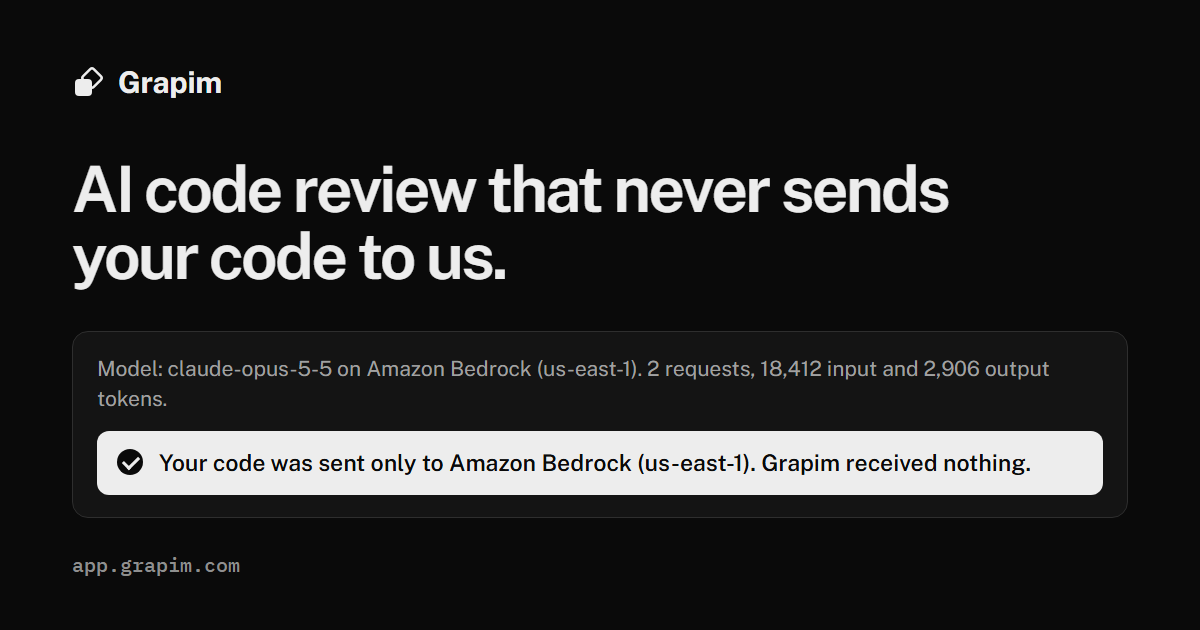
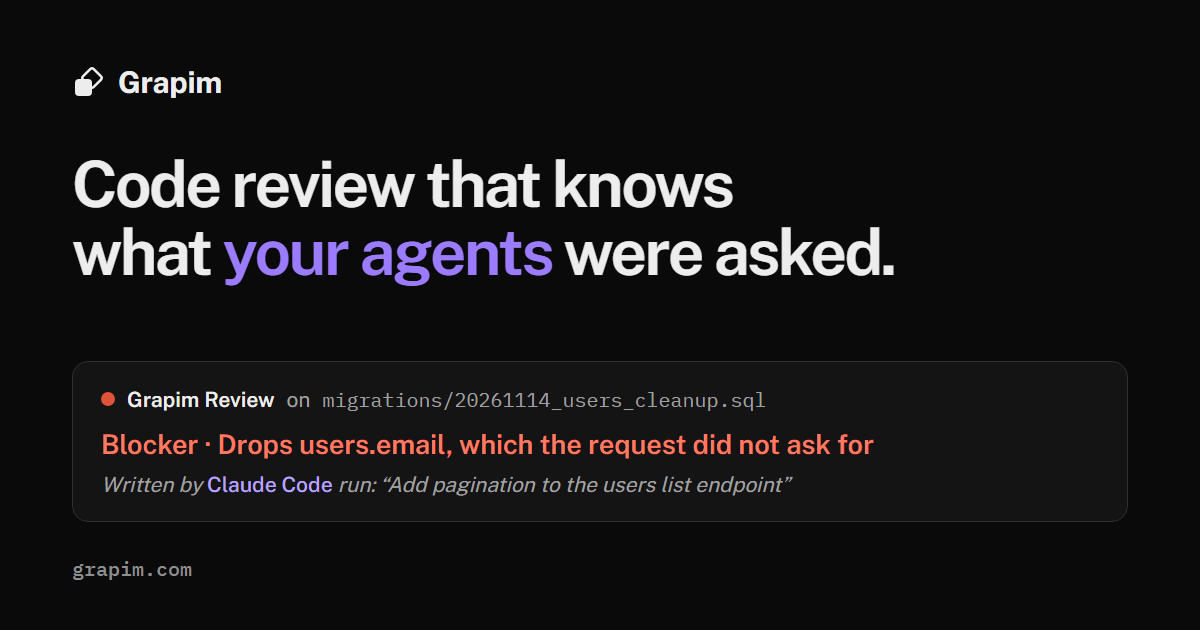
Share image, LinkedIn cover and README header on the new message
The share image (og.png) still said "never sends your code to us", which
the cloud review contradicts. It now carries the landing headline with its
grape phrase and one real review comment, large enough to read in a link
preview. The LinkedIn cover follows what Vercel, Supabase and CodeRabbit
do: one line in large type starting a third of the way in, clear of the
logo tile, and the mark on the right. The README opens with the share image
and a row of links, like the larger open-source projects.

diff --git a/design/og.html b/design/og.html
@@ -2,9 +2,9 @@
 <!-- The share image (og.png, 1200x630). Render with headless Chrome at
      1200x630 and save to src/hub/pages/site-img/og.png:
        node design/render.mjs file:///<repo>/design/og.html src/hub/pages/site-img/og.png 1200 630 dark
-     Monochrome (design/brand.md): the black band, the
-     landing headline, and the signature element, the clearance line, as the
-     one picture. No abstract graphic. -->
+     Brand of 2026-11-15 (design/brand.md): the black band, the landing
+     headline with its one grape phrase, and the product itself: one review
+     comment as Grapim posts it, large enough to read in a link preview. -->
 <html lang="en">
 <head>
 <meta charset="utf-8">
@@ -16,22 +16,27 @@
   body { font-family: "Public Sans", sans-serif; color: #ededed; background: #0a0a0a; position: relative; }
   .brand { position: absolute; left: 72px; top: 64px; display: flex; align-items: center; gap: 14px; font-size: 30px; font-weight: 700; letter-spacing: -0.005em; }
   .brand svg { width: 32px; height: 32px; color: #ededed; }
-  h1 { position: absolute; left: 72px; top: 156px; margin: 0; width: 900px; font-size: 64px; line-height: 1.04; font-weight: 640; letter-spacing: -0.04em; }
-  .card { position: absolute; left: 72px; right: 72px; bottom: 112px; padding: 22px 24px; border-radius: 16px; background: #141414; border: 1px solid #2e2e2e; }
-  .meta { margin: 0 0 16px; font-size: 21px; line-height: 1.45; color: #a1a1a1; }
-  .seal { position: relative; margin: 0; padding: 16px 20px 16px 62px; border-radius: 12px; background: #ededed; color: #0a0a0a; font-size: 23px; line-height: 1.4; font-weight: 560; }
-  .seal::before { content: ""; position: absolute; left: 20px; top: 18px; width: 26px; height: 26px; border-radius: 50%; background: #0a0a0a; }
-  .seal::after { content: ""; position: absolute; left: 29px; top: 22px; width: 7px; height: 13px; border: solid #ededed; border-width: 0 3px 3px 0; transform: rotate(45deg); }
-  .url { position: absolute; left: 72px; bottom: 52px; font: 500 20px "IBM Plex Mono", monospace; color: #8f8f8f; }
+  h1 { position: absolute; left: 72px; top: 150px; margin: 0; width: 1000px; font-size: 64px; line-height: 1.06; font-weight: 640; letter-spacing: -0.04em; }
+  h1 .hl { color: #9b7cff; }
+  .card { position: absolute; left: 72px; right: 72px; bottom: 108px; padding: 24px 28px; border-radius: 16px; background: #141414; border: 1px solid #2e2e2e; }
+  .who { display: flex; align-items: center; gap: 12px; font-size: 21px; color: #a1a1a1; }
+  .who b { color: #ededed; font-weight: 600; }
+  .who code { font: 400 20px "IBM Plex Mono", monospace; color: #a1a1a1; }
+  .dot { width: 14px; height: 14px; border-radius: 50%; background: #e0533b; flex: none; }
+  .title { margin: 14px 0 0; font-size: 27px; font-weight: 600; line-height: 1.3; color: #ff7a62; }
+  .run { margin: 10px 0 0; font-size: 21px; color: #a1a1a1; font-style: italic; }
+  .run b { color: #b9a3ff; font-style: normal; font-weight: 500; }
+  .url { position: absolute; left: 72px; bottom: 48px; font: 500 20px "IBM Plex Mono", monospace; color: #8f8f8f; }
 </style>
 </head>
 <body>
   <div class="brand"><svg viewBox="0 0 64 64"><rect x="25" y="9" width="30" height="30" rx="5" transform="rotate(45 40 24)" fill="none" stroke="currentColor" stroke-width="5"/><rect x="6" y="26" width="34" height="34" rx="8" fill="currentColor"/></svg>Grapim</div>
-  <h1>AI code review that never sends your code to us.</h1>
+  <h1>Code review that knows<br>what <span class="hl">your agents</span> were asked.</h1>
   <div class="card">
-    <p class="meta">Model: claude-opus-5-5 on Amazon Bedrock (us-east-1). 2 requests, 18,412 input and 2,906 output tokens.</p>
-    <p class="seal">Your code was sent only to Amazon Bedrock (us-east-1). Grapim received nothing.</p>
+    <div class="who"><span class="dot"></span><b>Grapim Review</b> on <code>migrations/20261114_users_cleanup.sql</code></div>
+    <p class="title">Blocker · Drops users.email, which the request did not ask for</p>
+    <p class="run">Written by <b>Claude Code</b> run: “Add pagination to the users list endpoint”</p>
   </div>
-  <div class="url">app.grapim.com</div>
+  <div class="url">grapim.com</div>
 </body>
 </html>

diff --git a/design/linkedin-banner.html b/design/linkedin-banner.html
@@ -1,0 +1,31 @@
+<!doctype html>
+<!-- LinkedIn cover (company page and founder profile), 1128x191 drawn at 2x.
+     Render: headless Chrome at 2256x382.
+     How the references do it (Vercel, Supabase, CodeRabbit, checked
+     2026-11-15): one line in large type that starts about a third of the way
+     in, clear of the logo tile LinkedIn draws over the lower left, and the
+     brand mark on the right. The cover shows at about half size on the page,
+     so nothing small. Ours: the black band, Public Sans, grape for the
+     phrase that says what Grapim knows. -->
+<html lang="en">
+<head>
+<meta charset="utf-8">
+<style>
+  @font-face { font-family: "Public Sans"; src: url("../ui/fonts/public-sans-latin.woff2") format("woff2"); font-weight: 100 900; }
+  html, body { margin: 0; width: 2256px; height: 382px; overflow: hidden; }
+  body { font-family: "Public Sans", sans-serif; color: #ededed; background: #0a0a0a; position: relative; }
+  .copy { position: absolute; left: 700px; top: 0; bottom: 0; display: flex; align-items: center; }
+  h1 { margin: 0; font-size: 76px; line-height: 1.1; font-weight: 680; letter-spacing: -0.035em; }
+  h1 .hl { color: #9b7cff; }
+  .brand { position: absolute; right: 120px; top: 0; bottom: 0; display: flex; align-items: center; gap: 22px; font-size: 56px; font-weight: 680; letter-spacing: -0.03em; }
+  .brand svg { width: 72px; height: 72px; }
+</style>
+</head>
+<body>
+  <div class="copy"><h1>Code review that knows<br>what <span class="hl">your agents</span> were asked.</h1></div>
+  <div class="brand">
+    <svg viewBox="0 0 64 64" aria-hidden="true"><rect x="25" y="9" width="30" height="30" rx="5" transform="rotate(45 40 24)" fill="none" stroke="#ededed" stroke-width="5.6"/><rect x="6" y="26" width="34" height="34" rx="8" fill="#ededed"/></svg>
+    Grapim
+  </div>
+</body>
+</html>

diff --git a/README.md b/README.md
@@ -1,5 +1,9 @@
 # Grapim
 
+<p><a href="https://grapim.com"><img src="https://grapim.com/hub/static/site/og.png" alt="Grapim: code review that knows what your agents were asked. A review comment flags a migration that drops users.email, written by a Claude Code run asked only to add pagination." width="720"></a></p>
+
+<p><a href="https://grapim.com">Website</a> · <a href="https://grapim.com/docs/review">Docs</a> · <a href="https://grapim.com/pricing">Pricing</a> · <a href="https://grapim.com/changelog">Changelog</a> · <a href="https://www.linkedin.com/company/grapim">LinkedIn</a></p>
+
 **Code review that knows what your agents were asked.**
 
 Grapim reviews every pull request and comments on the lines that need attention. When Claude Code, Codex, Cursor or Gemini CLI wrote the change, it knows which run wrote each line and what that run was asked to do, so it also flags work nobody asked for: a dropped column, a deleted test, a weakened check.
